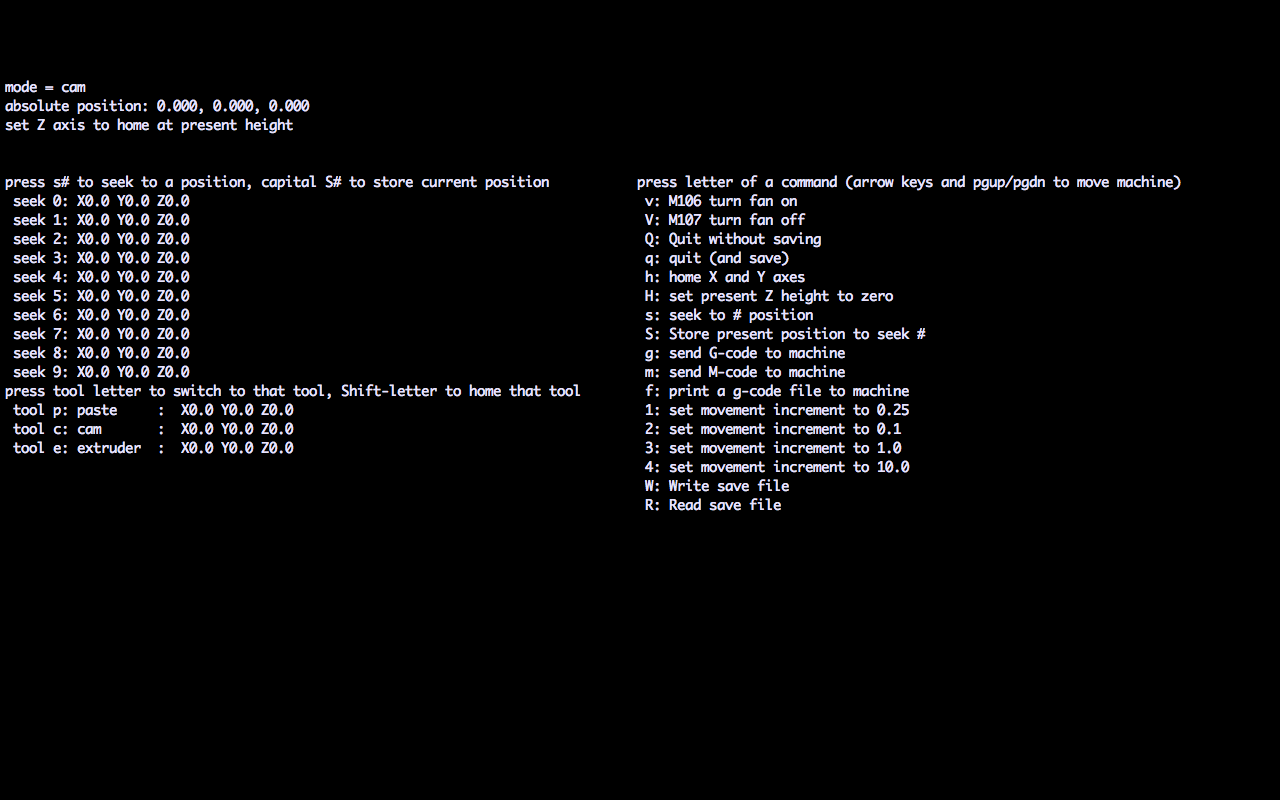
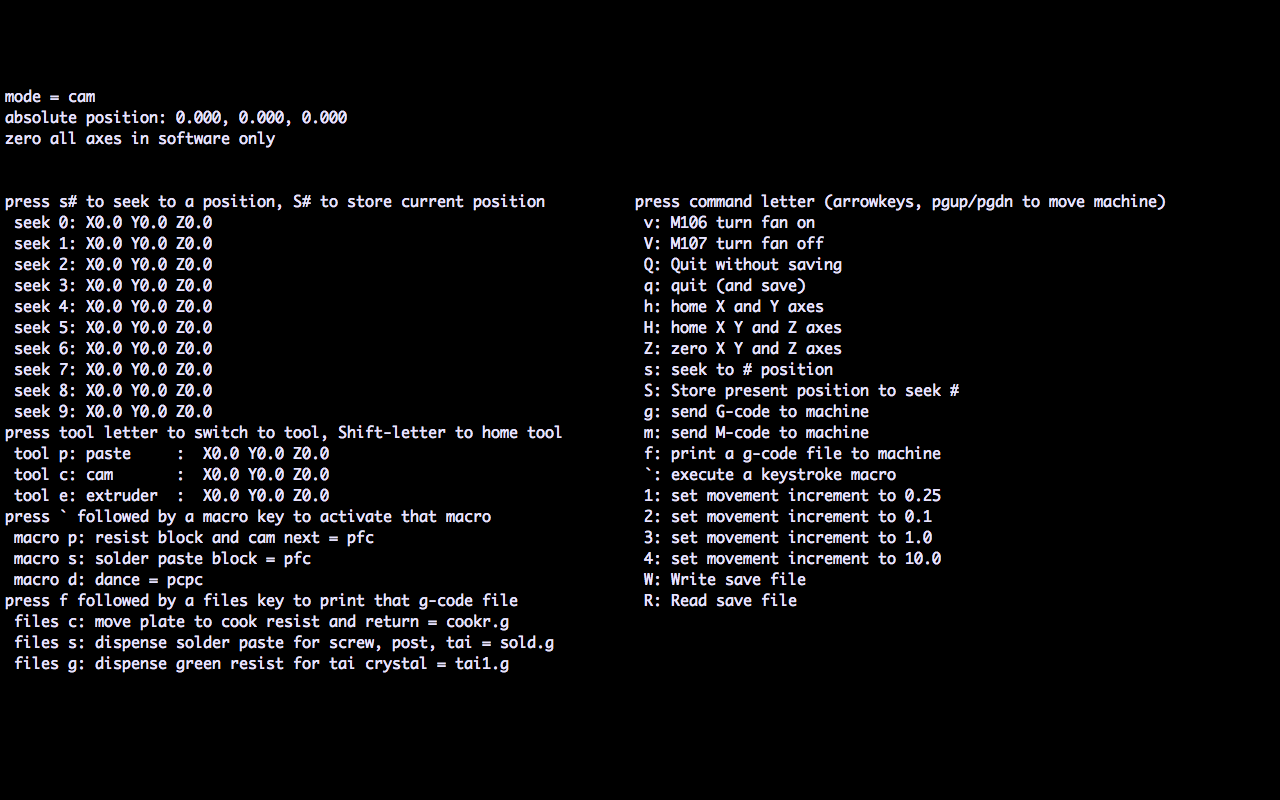
added macros and file printing

Changed region(s): [[0.0, 0.2188, 0.4688, 0.8438], [0.5, 0.2188, 0.9375, 0.7812], [0.0, 0.0938, 0.2812, 0.1875]]

diff --git a/homer.py b/homer.py
@@ -9,6 +9,13 @@ from subprocess import Popen, PIPE, call
 #set up globally scoped variables for telemetry
 move_adder = {'x': 0.0, 'y': 0.0, 'z': 0.0}
 present_position = {'x': 0.0, 'y': 0.0, 'z': 0.0}
+filePath = "/home/smacbook/gcode/" # prefix for all filenames in files
+files = {ord('g') : {'name':'dispense green resist for tai crystal','filename':'tai1.g'},
+         ord('s') : {'name':'dispense solder paste for screw, post, tai','filename':'sold.g'},
+         ord('c') : {'name':'move plate to cook resist and return','filename':'cookr.g'}}
+macros = {ord('p') : {'name':'resist block and cam next','keys':'pfc'},
+          ord('d') : {'name':'dance','keys':'pcpc'},
+          ord('s') : {'name':'solder paste block','keys':'pfc'}}
 tools = {ord('e') : {'name':'extruder'}, ord('c') : {'name':'cam'}, ord('p') : {'name':'paste'}}
 for i in tools:
   for g in {'x','y','z'}:
@@ -96,16 +103,26 @@ def printFile(filename, ptr):
 
 def printCommands():
   for i in range(0, 10):
-    screen.addstr(9,0,"press s# to seek to a position, capital S# to store current position")
+    screen.addstr(9,0,"press s# to seek to a position, S# to store current position")
     screen.addstr(10+i,0," seek {0}: X{1} Y{2} Z{3}  {4}".format(i,seek_positions[i]['x'],seek_positions[i]['y'],seek_positions[i]['z'],seek_positions[i]['name']))
   linenum = 20
-  screen.addstr(linenum,0,"press tool letter to switch to that tool, Shift-letter to home that tool")
+  screen.addstr(linenum,0,"press tool letter to switch to tool, Shift-letter to home tool")
   linenum += 1
   for i in tools:
     screen.addstr(linenum,0," tool {0}: {4}:  X{1} Y{2} Z{3}".format(chr(i),tools[i]['x'],tools[i]['y'],tools[i]['z'],tools[i]['name'].ljust(10)))
     linenum += 1
+  screen.addstr(linenum,0,"press ` followed by a macro key to activate that macro")
+  linenum += 1
+  for i in macros:
+    screen.addstr(linenum,0," macro {0}: {1} = {2}".format(chr(i),macros[i]['name'],macros[i]['keys']))
+    linenum += 1
+  screen.addstr(linenum,0,"press f followed by a files key to print that g-code file")
+  linenum += 1
+  for i in files:
+    screen.addstr(linenum,0," files {0}: {1} = {2}".format(chr(i),files[i]['name'],files[i]['filename']))
+    linenum += 1
   linenum = 9
-  screen.addstr(linenum,midX,"press letter of a command (arrow keys and pgup/pgdn to move machine)")
+  screen.addstr(linenum,midX,"press command letter (arrowkeys, pgup/pgdn to move machine)")
   linenum += 1
   for i in commands:
     screen.addstr(linenum+commands[i]['seq'],midX," {0}: {1}".format(i,commands[i]['descr']))
@@ -204,10 +221,23 @@ def speed4():
   increment = 10.0
 
 def filePicker():
-  filename = "sline.g"
-  printInfo("Printing G-code file "+filename)
-  printFile(filename,ptr)
-  printInfo("Finished printing G-code file "+filename)
+  printInfo("Which file do you want to print?")
+  press = screen.getch()
+  if press in files:
+    filename = filePath+files[press]['filename']
+    printInfo("Printing G-code file "+filename)
+    printFile(filename,ptr)
+    printInfo("Finished printing G-code file "+filename)
+  else:
+    printInfo("not a valid files key")
+
+def macro():
+    printInfo("Which macro to execute?")
+    press = screen.getch()
+    if press in macros:
+      printInfo(macros[press]['name'])
+    else:
+      printInfo("not a valid macro key")
 
 commands = { 'v': {'seq': 0,'descr':'M106 turn fan on','func':fanOn},
              'V': {'seq': 1,'descr':'M107 turn fan off','func':fanOff},
@@ -221,7 +251,7 @@ commands = { 'v': {'seq': 0,'descr':'M106 turn fan on','func':fanOn},
              'g': {'seq': 9,'descr':'send G-code to machine','func':gCode},
              'm': {'seq':10,'descr':'send M-code to machine','func':mCode},
              'f': {'seq':11,'descr':'print a g-code file to machine','func':filePicker},
-             '`': {'seq':12,'descr':'execute a keystroke macro'},
+             '`': {'seq':12,'descr':'execute a keystroke macro','func':macro},
              '1': {'seq':13,'descr':'set movement increment to 0.25','func':speed1},
              '2': {'seq':14,'descr':'set movement increment to 0.1','func':speed2},
              '3': {'seq':15,'descr':'set movement increment to 1.0','func':speed3},
